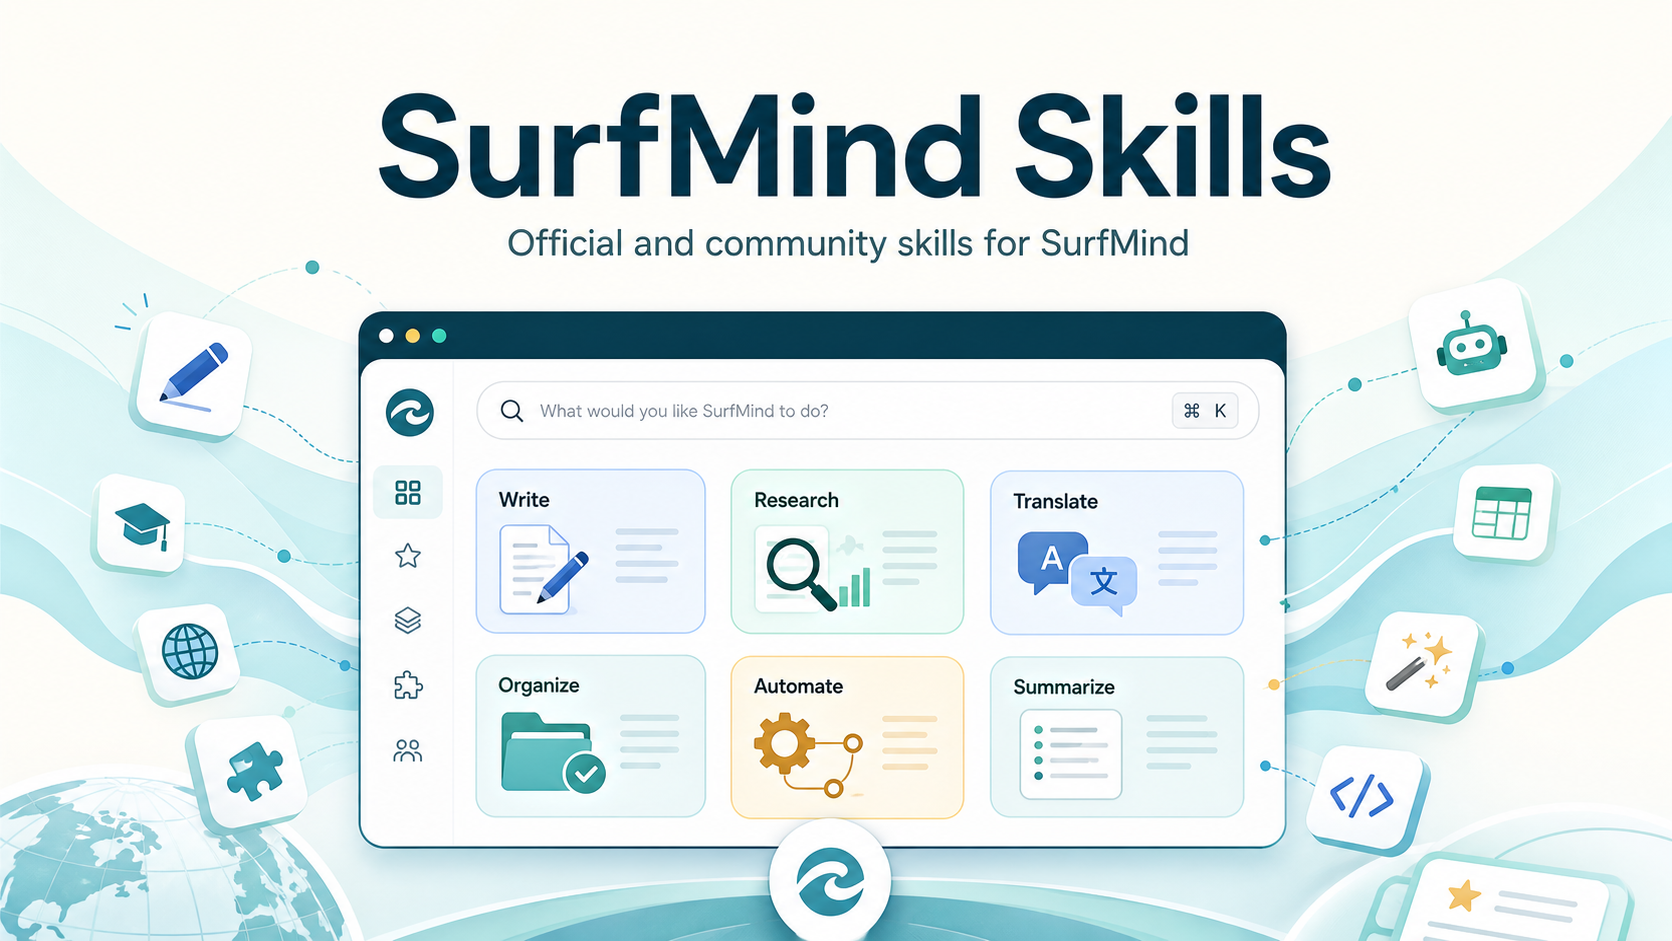
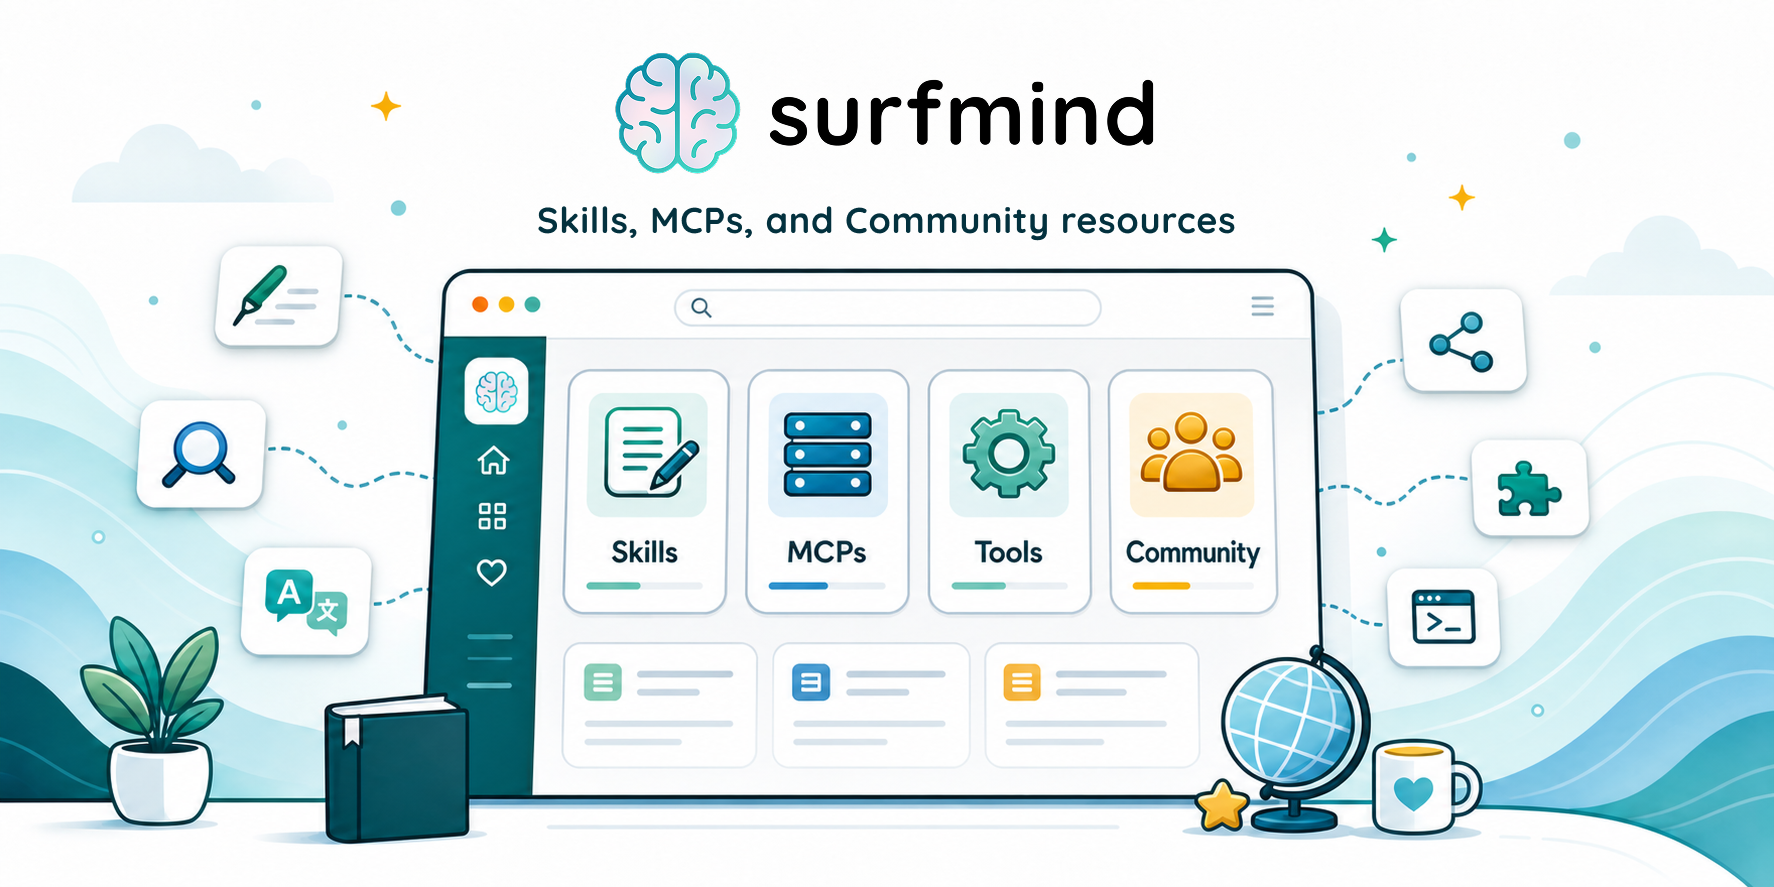
Update README

diff --git a/README.md b/README.md
@@ -1,19 +1,17 @@
 <p align="center">
-  <img src="./assets/banner.png" alt="SurfMind Skills cover" width="100%" />
+  <img src="./assets/banner.png" alt="Awesome SurfMind cover" width="100%" />
 </p>
 
-<h1 align="center">SurfMind Skills</h1>
+<h1 align="center">Awesome SurfMind</h1>
 
 <p align="center">
-  Official and community skills for SurfMind, the AI assistant that works where
-  you browse.
+  A curated catalog of skills, MCPs, and community resources for SurfMind, the AI assistant that works where you browse.
 </p>
 
 <p align="center">
   <a href="https://github.com/sindresorhus/awesome"><img alt="Awesome" src="https://awesome.re/badge.svg" /></a>
   <a href="./CONTRIBUTING.md"><img alt="Contributions welcome" src="https://img.shields.io/badge/contributions-welcome-2f7f7b?style=flat-square" /></a>
   <a href="./LICENSE"><img alt="License MIT" src="https://img.shields.io/badge/license-MIT-4b9aa0?style=flat-square" /></a>
-  <a href="./awesome-skills.md"><img alt="Community skills" src="https://img.shields.io/badge/community-skills-f0b85a?style=flat-square" /></a>
 </p>
 
 <p align="center">
@@ -28,34 +26,25 @@
 
 ## 💡 What Is This?
 
-SurfMind skills are reusable instructions that turn common browser workflows
-into one-click AI actions. They can summarize a page, improve selected writing,
-translate text, answer questions from page context, and more.
-
-This repository is the public catalog source for SurfMind:
+Awesome SurfMind is the public catalog for SurfMind resources. This repo makes useful SurfMind resources easy to discover, review, version, and share. Official resources can live here directly, while community resources can be promoted from their own repos through awesome lists.
 
 - `skills/` contains official SurfMind-maintained skills.
 - `awesome-skills.md` lists community skills hosted in external GitHub repos.
+- `awesome-mcps.md` lists community MCP servers and integrations (coming soon).
 - `CONTRIBUTING.md` explains how to add official skills or list your own.
-
-## ✨ Why It Exists
-
-Most AI prompts live in private notes, browser snippets, or one-off chats. This
-repo makes useful skills easy to discover, review, version, and share. Official
-skills are maintained here directly, while community skills can be promoted from
-their own repos through the awesome list.
 
 ## 👋 Join The Community
 
-SurfMind Skills is a shared catalog for useful browser AI workflows. Whether you
-use SurfMind every day, maintain your own skill repo, or just have a prompt that
-deserves to be reusable, you are welcome here.
+Awesome SurfMind is a shared catalog for useful browser AI workflows. Whether
+you use SurfMind every day, maintain your own skill or MCP repo, or just have an
+idea that deserves to be reusable, you are welcome here.
 
 | Start here              | What to do                                                                                                                  |
 | ----------------------- | --------------------------------------------------------------------------------------------------------------------------- |
 | ⭐ Star this repo       | Get release notifications and help more people discover the catalog.                                                        |
 | 🧩 Try official skills  | Browse the official skills below and use them in SurfMind.                                                                  |
 | 🌊 Share your own skill | Add your GitHub-hosted skill to [`awesome-skills.md`](./awesome-skills.md).                                                 |
+| 🔌 Suggest an MCP       | Open an [issue](https://github.com/surfmind-space/surfmind-skills/issues) for an MCP listing or integration idea.           |
 | 💬 Suggest an idea      | Open an [issue](https://github.com/surfmind-space/surfmind-skills/issues) for a skill request, bug, or catalog improvement. |
 
 <p align="center">
@@ -101,7 +90,8 @@ tables, and open a PR.
 ## 🤝 Contributing
 
 Contributions of all kinds are welcome: new official skills, better prompts,
-category fixes, docs polish, bug reports, and community skill listings.
+category fixes, docs polish, bug reports, community skill listings, and soon MCP
+listings.
 
 See [`CONTRIBUTING.md`](./CONTRIBUTING.md) for the skill file format, available
 metadata fields, community listing format, and local validation commands.